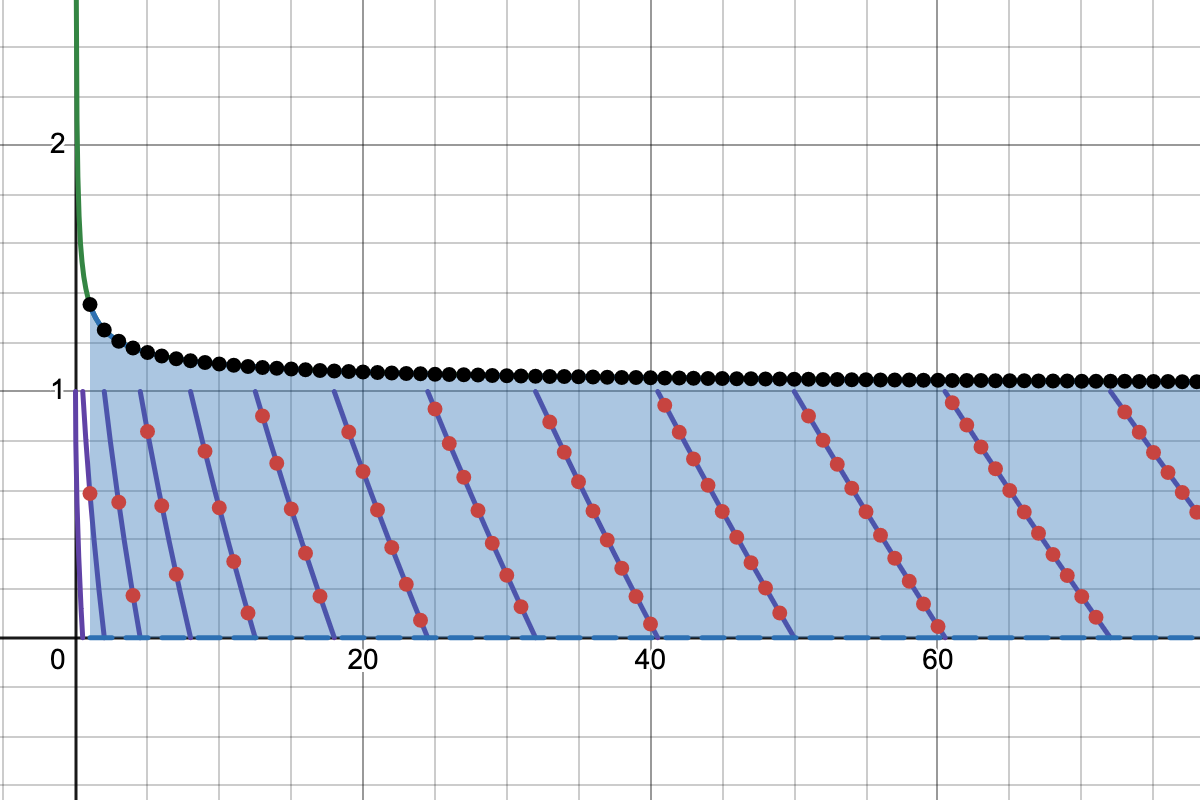
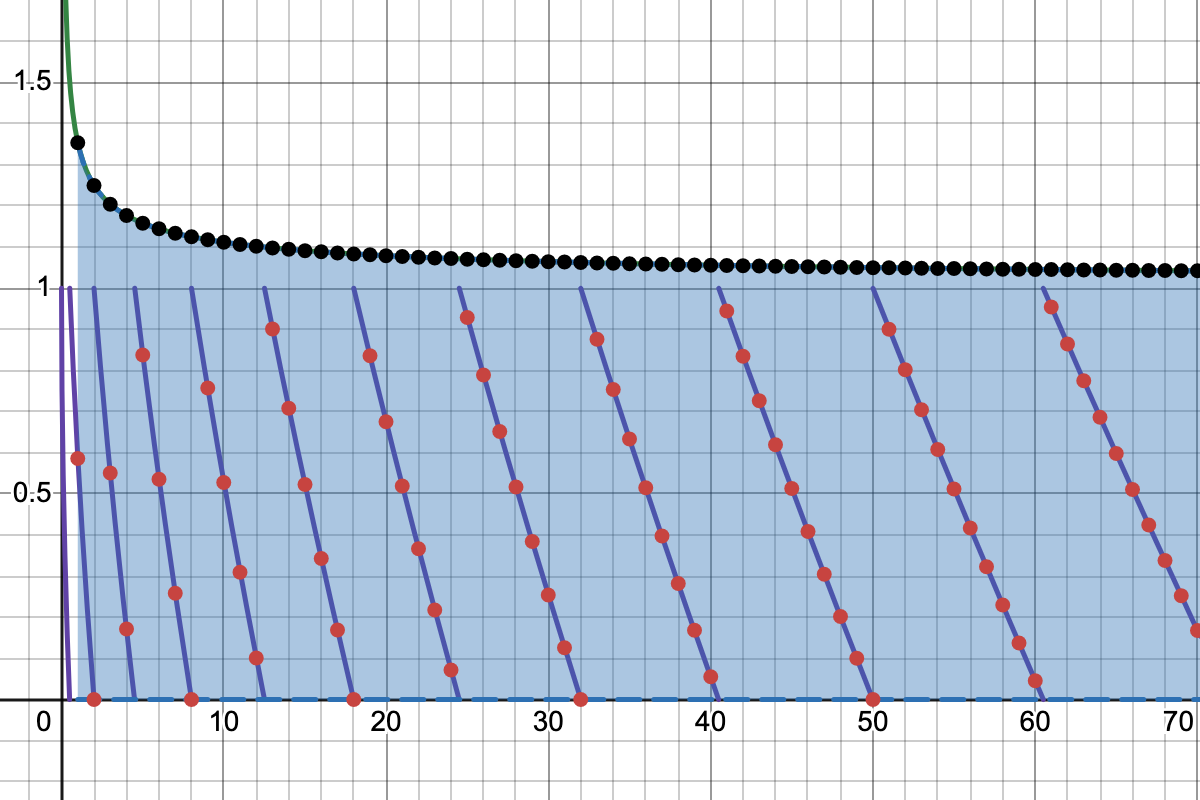
Some more clarity

diff --git a/doc/filling-the-grid.md b/doc/filling-the-grid.md
@@ -449,7 +449,7 @@ rb - \frac{n}{b} \ge 1 \implies &rb^2 -n - b \ge 0 \\
     \implies &b \ge \frac{1}{2r} + \sqrt{\frac{1}{4r^2} + \frac{n}{r}} > \sqrt{\frac{n}{r}}
 \end{align*}$$
 
-If $b$ is greater than that the fit-height point $(a, b)$ is valid. The bound doesn't cover all cases when $\exist k \in \N \text{ . } k \in [\frac{n}{b}, rb]$ (e.g. when $y_0 \in \N$ then the point valid for every $n$) but it is easy to _quanitfy_. We can use it to answer: for fixed $r \ge 1$ what's the probability for $b$ to be a valid fit-height solution?
+If $b$ is greater than that the fit-height point $(a, b)$ is valid. The condition excludes cases when $\exist k \in \N \text{ . } k \in [\frac{n}{b}, rb]$ (e.g. when $y_0 \in \N$ then the point valid for every $n$) but it is easy to _quanitfy_. We can use it to answer: for fixed $r \ge 1$ what's the probability for $b$ to be a valid fit-height solution?
 
 To do this, observe that by the properties of ceiling, $\sqrt{\frac{n}{r}} \le b \lt \sqrt{\frac{n}{r}} + 1$. We can bound the expression above likewise, using $r \ge 1$:
 
@@ -473,22 +473,37 @@ Let's visualize this:
 
 <p style="display: flex; gap: 1em; justify-content: center">
     <img src="./img/prob-one.png" width="300" />
-    <img src="./img/prob-two.png" width="300" />
+    <img src="./img/prob-two.png" width="300"/>
 </p>
 
-First graph depicts $r = 1$, the second $r = 3$. The red points represent $C_r(n)$, the black points $B_r(n)$. Whenever a red point is in the green area $C_r(n) \ge B_r(n)$, meaning $\left\lceil{\sqrt{\frac{n}{r}}}\right\rceil$ is a valid fit-height point for $n$. The points where $C_r(n) = 0$ are ignored because that means that the corresponding $b$ is an integer and thus a valid point.
+First graph depicts $r = 1$, the second $r = 3$. The red points represent $C_r(n)$, the black points $B_r(n)$. Whenever a red point is in the green area $C_r(n) \ge B_r(n)$, meaning $\left\lceil{\sqrt{\frac{n}{r}}}\right\rceil$ is a valid fit-height point for $n$.
 
-Since this criterion doesn't cover all possibilities, the probability that $b$ is a valid point up to a certain $n$ of choice is greater than or equal to the number of points in the green area divided by the total number of points:
+Since this criterion doesn't cover all possibilities, the ratio between the number of valid points in the green area and the total number of points provides a lower bound for the probability that $b$ is a valid point:
 
 $$\begin{align*}
-P_r \ge \lim_{n \to \infin} \frac{\left|\Set{k \in [n] : C_r(k) \ge B_r(k)}\right|}{\left|\Set{k \in [n] : C_r(k) > 0}\right|} \qquad
+P_r \ge \lim_{n \to \infin} \frac{\left|S_n\right|}{n} \qquad
+\begin{align*}
+S_n &= \Set{k \in [n] : C_r(k) \ge B_r(k)}
+\end{align*}
 \end{align*}$$
 
-We can approximate by counting points up to a certain $n$. For example $P_{1,n=10} \ge \frac{4}{7} \approx 0.571$ and $P_{3,n=26} \ge \frac{21}{24} = 0.875$.
+We can approximate by counting points up to a certain $n$. For example $P_{1,n=10} \ge \frac{4}{10}$ and $P_{3,n=26} \ge \frac{21}{26}$.
 
-But we can't count to infinity. Luckily, $C(n)$ is [equidistributed modulo 1](https://en.wikipedia.org/wiki/Equidistributed_sequence#Equidistribution_modulo_1): the points $(n, C_r(n))$ are [uniformly distributed](https://en.wikipedia.org/wiki/Continuous_uniform_distribution) between the two green and blue areas, proportionally with their sizes. This enables us to just compute the ratio of the solution area to the total area, which is the complement of $B_r(x)$'s area within $(0, 1)$.
+But we can't count to infinity. Enter [asymptotic density](https://en.wikipedia.org/wiki/Natural_density): a measure of how big a subset of $\N$ is relative to $\N$! For our solution set $S$ its density is:
 
-To compute this, let's bound $B_r(n)$ first:
+$$\begin{align*}
+d(S) = \lim_{n \to \infin}\frac{|S_n|}{n} \le P_r
+\end{align*}$$
+
+Exactly what we need. To compute $d(S)$ we use that $C_r(n)$ is [equidistributed modulo 1](https://www.isibang.ac.in/~sury/weyl.pdf). Equidistribution modulo 1 implies that, for constant $t \in [0, 1)$:
+
+$$\begin{align*}
+\lim_{n \to \infin}\frac{\left|\Set{ C_r(k) : k \in [n] } \cap [t, 1]\right|}{n} = 1 - t
+\end{align*}$$
+
+This tells us that a percentage of $1 - t$ points out of $n$ are in $[t, 1]$. One can roughly notice this on the graph: the points $(n, C_r(n))$ are [distributed uniformly](https://en.wikipedia.org/wiki/Continuous_uniform_distribution) between the green and blue areas, proportionally with their sizes. 
+
+The limit's numerator is equivalent to $\left|\Set{k \in [n] : C_r(k) \ge t}\right|$. For $t = B_r(k)$ this would've been precisely $S_n$, with the limit then giving us $d(S)$ directly, but $t$ must be constant. To find an appropriate value, let's bound $B_r(n)$:
 
 $$\begin{align*}
 \frac{1}{2r} \le B_r(n) &= \frac{1}{2r} + \sqrt{\frac{1}{4r^2}+\frac{n}{r}} - \sqrt{\frac{n}{r}} \\
@@ -497,19 +512,17 @@ $$\begin{align*}
     &= \frac{1}{2r}+\frac{1}{8r\sqrt{rn}}
 \end{align*}$$
 
-The approximation $\sqrt{1 + x} \le 1 + \frac{x}{2}$ was used. We can observe the following:
+The approximation $\sqrt{1 + x} \le 1 + \frac{x}{2}$ was used. Observe that the second term vanishes as $n \to \infin$. There may be an initial finite interval on which it excludes numbers, but for the remaining infinite tail it changes nothing. Since the density of a finite subset of integers is $0$, we can ignore that segment when computing $d(S)$. The effect is also visible on the graph early on.
+
+This means we can simply take $t = \lim_{n \to \infin} B_r(n) = \frac{1}{2r}$. Our final result is:
 
 $$\begin{align*}
-\lim_{x \to \infin}B_r(x) = \frac{1}{2r} \qquad \displaystyle\int_{1}^{\infin}B_r(x)dx = \infin
+P_r \ge d(S) = \lim_{n \to \infin}\frac{\left|\Set{C_r(k) : k \in [n]} \cap [\frac{1}{2r}, 1]\right|}{n} = 1 - \frac{1}{2r}
 \end{align*}$$
 
-where the integral is the area under $B_r(x)$. We can now compute the probability:
+As a final note, attempting to exclude points where $C_r(n) = 0$, i.e. $\sqrt{\frac{n}{r}} \in \N$, would've not influenced the result: $\left|\Set{ k \in [n] : C_r(n) = 0 }\right| \le \mathcal{O}(\sqrt{n})$, so it's a density-zero set.
 
-$$\begin{align*}
-P_r \ge 1 - \lim_{x \to \infin}\frac{\displaystyle\int_{1}^{x}B_r(n)dn}{\int_{1}^{x}1} = 1 - \lim_{x \to \infin}B_r(x) = 1 - \frac{1}{2r}
-\end{align*}$$
-
-Since we are in the $\frac{\infin}{\infin}$ indeterminate form l'Hôpital was applied, avoiding integration. Thus, for the examples above $P_1 \ge 0.5$ and $P_3 \ge 0.833$.
+Thus, for the examples above $P_1 \ge 0.5$ and $P_3 \ge 0.833$. [Desmos for the graph here.][2]
 
 The first conclusion is that fit-height solutions will for the most part have $b_h = \left\lceil{\sqrt{\frac{n}{r}}}\right\rceil$. We can derive even more interesting information by looking at the graph for $r < 1$:
 
@@ -570,3 +583,4 @@ $$\begin{align*} x \le n \iff x < n \iff &\left\lfloor x \right\rfloor + \{x\} <
 The others are proven in a similar fashion. Read more about this on [Wikipedia's "Equivalences" for floor and ceiling](https://en.wikipedia.org/wiki/Floor_and_ceiling_functions#Equivalences). These are standard properties but I insisted on writing them here as a "note to self" since I've confused myself and applied them wrong way too many times. I probably know that Wikipedia page now by heart.
 
 [1]: https://www.desmos.com/calculator/8y5xph34oc
+[2]: https://www.desmos.com/calculator/lmc2x29a3i